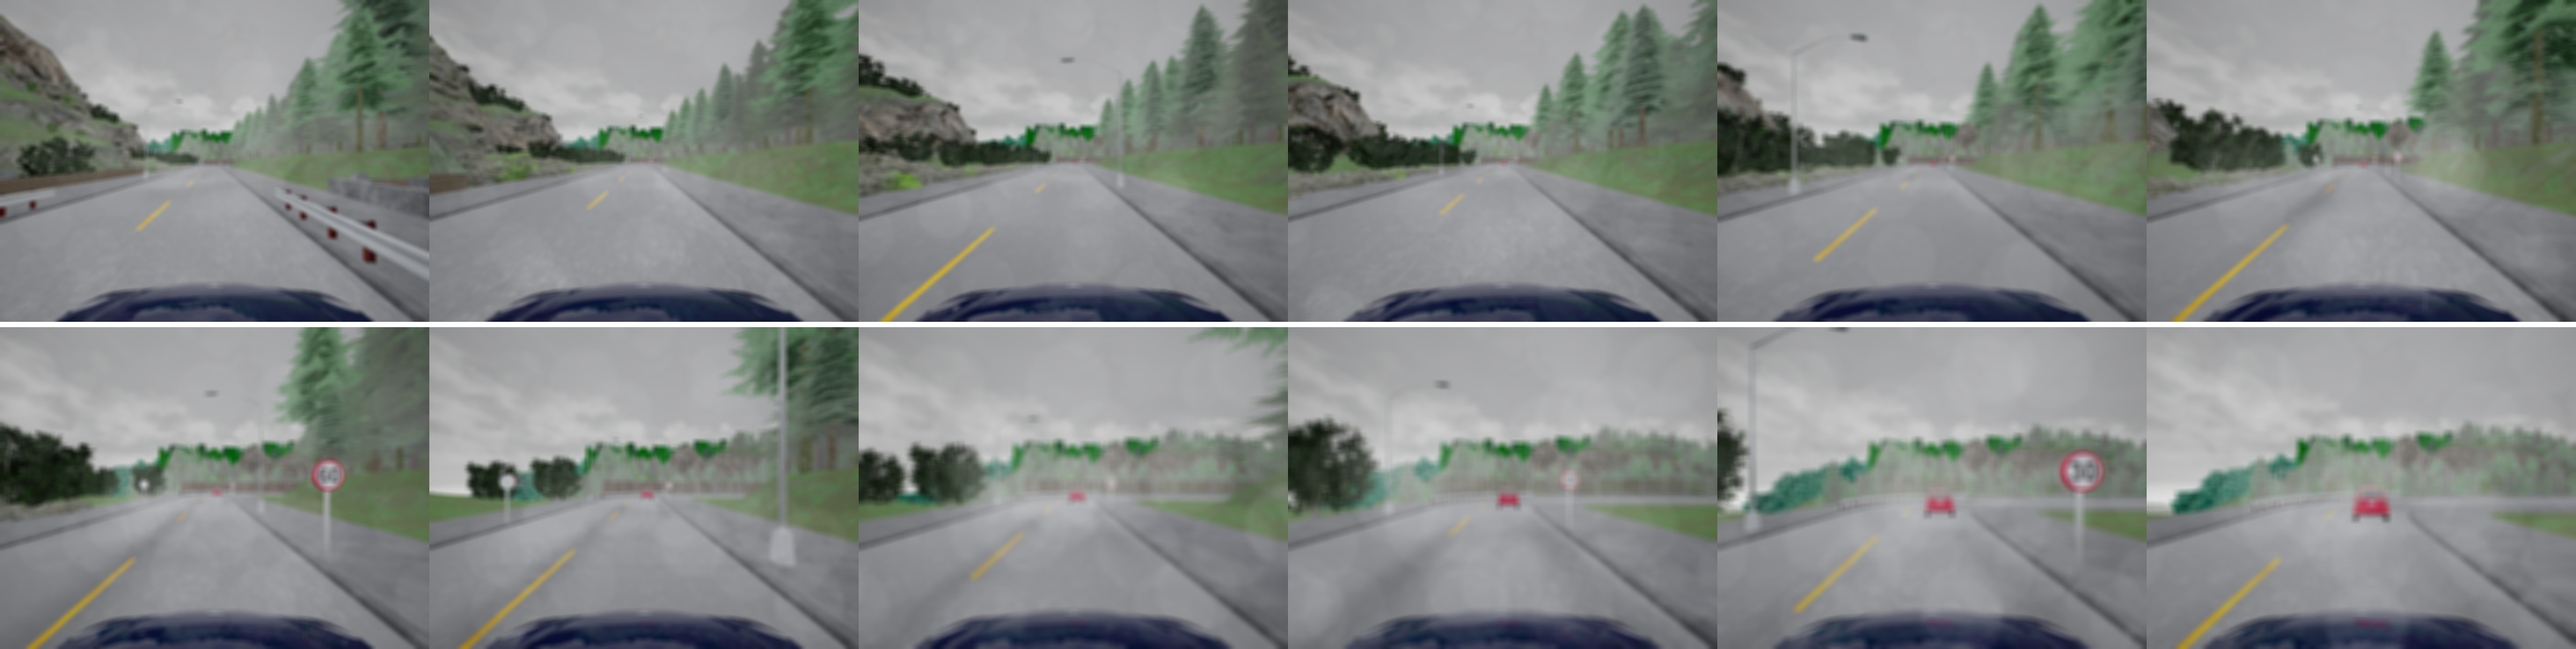
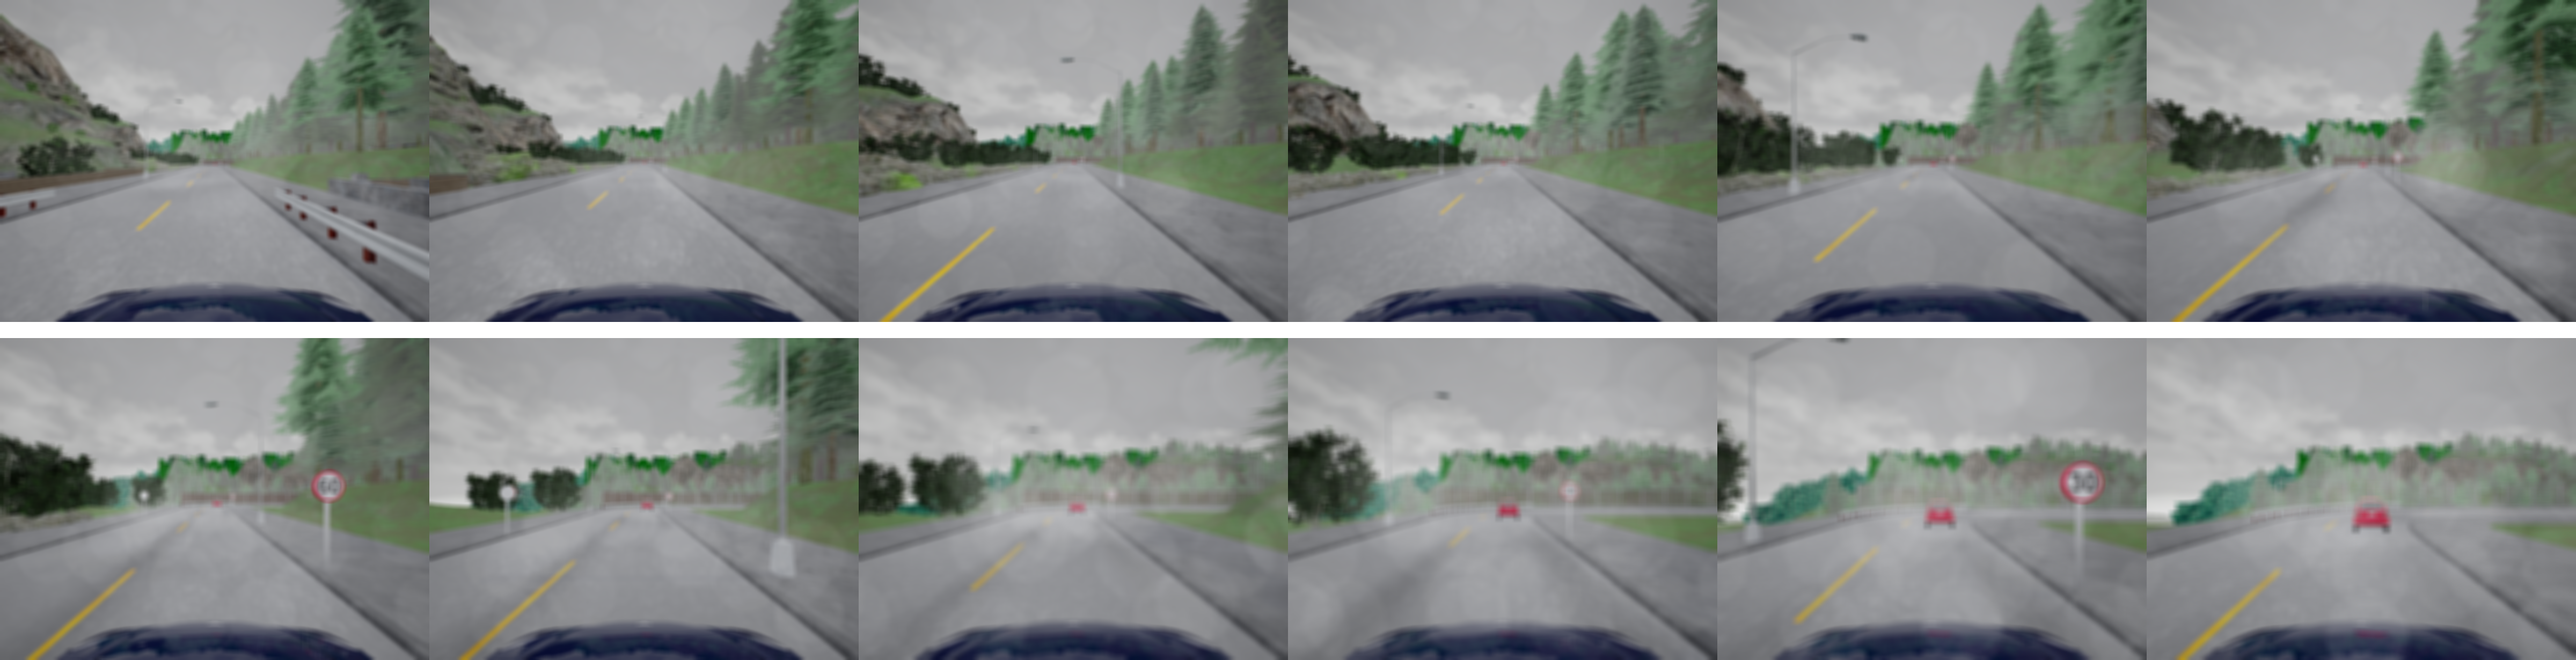
made carla rolls better separated

diff --git a/plots/gen_carla_examples.py b/plots/gen_carla_examples.py
@@ -50,7 +50,7 @@ def generate(type_of_imgs):
     for n, img in enumerate(roll_of_images[int(n_roll/2)+1 :]):
         concat_roll_bottom = np.concatenate((concat_roll_bottom, img), axis=1)
 
-    white_space_height = 10
+    white_space_height = 30
     white_space_row = np.zeros([white_space_height, W*int(n_roll/2), 3],dtype=np.uint8)
     white_space_row[:] = 255
 
